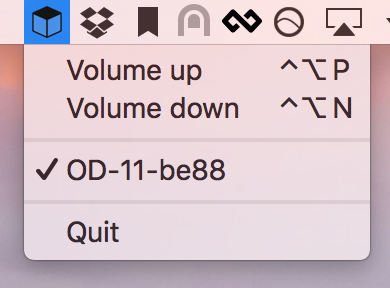
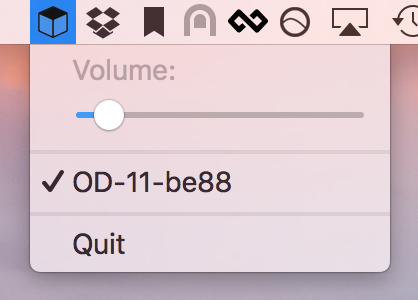
Slider for updating volume in menu

Changed region(s): [[0.0, 0.0, 1.0, 0.9062], [0.1538, 0.1875, 0.5231, 0.3125], [0.7077, 0.1875, 0.8923, 0.2812]]

diff --git a/OrthoCtrl/AppDelegate.m b/OrthoCtrl/AppDelegate.m
@@ -66,16 +66,7 @@
 @property Device* selectedDevice;
 @property DeviceDiscoverer*     disco;
 
-@end
-
-@class FindServices;
-@class Service;
-
-@protocol FindServicesDelegate <NSObject>
-
-- (void)findServices:(FindServices*)theFindServices didFindService:(Service*)theService;
-
-- (void)findServices:(FindServices*)theFindServices didLoseService:(Service*)theService;
+@property BOOL updatingVolume;
 
 @end
 
@@ -85,6 +76,7 @@
     [self startDiscovery];
     [self setupStatusItem];
     [self registerHotkeys];
+    self.updatingVolume = false;
 }
 
 #pragma mark - Bonjour
@@ -187,13 +179,22 @@
     NSMenu *menu = [[NSMenu alloc] init];
     NSMutableDictionary*  devices = [self.disco devices];
 
-    NSMenuItem* volUp   = [menu addItemWithTitle:@"Volume up" action:nil keyEquivalent:@"p"];
-    NSMenuItem* volDown = [menu addItemWithTitle:@"Volume down" action:nil keyEquivalent:@"n"];
-    [volUp setKeyEquivalentModifierMask: NSAlternateKeyMask | NSControlKeyMask];
-    [volDown setKeyEquivalentModifierMask: NSAlternateKeyMask | NSControlKeyMask];
-    if (devices.count > 0) {
-        [volUp setAction:@selector(increaseVolume:)];
-        [volDown setAction:@selector(decreaseVolume:)];
+    
+    double volumeValue = 0;
+    if (self.selectedDevice != nil) {
+        volumeValue = self.selectedDevice.volume;
+    }
+    [menu addItemWithTitle:@"Volume:" action:nil keyEquivalent:@""];
+    NSSlider* volumeSlider = [NSSlider sliderWithValue:volumeValue minValue:0 maxValue:100 target:nil action:nil];
+    volumeSlider.frame = CGRectMake(20, 0, 150.0, 25.0);
+    NSMenuItem* volumeItem = [[NSMenuItem alloc] init];
+    [volumeItem setIndentationLevel:2];
+    NSView* volumeView = [[NSView alloc] initWithFrame:CGRectMake(0, 0, 180, 25)];
+    [volumeView addSubview:volumeSlider];
+    [volumeItem setView:volumeView];
+    [menu addItem:volumeItem];
+    if (self.selectedDevice) {
+        [volumeSlider setAction:@selector(setVolume:)];
     }
     
     [menu addItem:[NSMenuItem separatorItem]];
@@ -239,6 +240,12 @@
     [self updateStatusItemMenu];
 }
 
+- (void) deviceDidUpdateVolume:(Device*)device
+{
+    self.updatingVolume = false;
+    [self updateStatusItemMenu];
+}
+
 #pragma mark - Menu actions
 
 - (void) increaseVolume:(id)sender
@@ -252,6 +259,16 @@
 {
     if (self.selectedDevice != nil) {
         [self.selectedDevice decreaseVolume];
+    }
+}
+
+- (void) setVolume:(NSSlider*)slider
+{
+    int requestedVolume = [slider intValue];
+    if (self.selectedDevice != nil && self.updatingVolume == false && requestedVolume != self.selectedDevice.volume) {
+        NSLog(@"requested volume: %d (was %d)", requestedVolume, self.selectedDevice.volume);
+        [self.selectedDevice updateVolume:requestedVolume];
+        self.updatingVolume = true;
     }
 }
 

diff --git a/OrthoCtrl/Device.m b/OrthoCtrl/Device.m
@@ -224,6 +224,7 @@
         case 0:
             self.volume = [[json valueForKey:@"vol"] intValue];
             NSLog(@"new volume: %d", self.volume);
+            [self.delegate deviceDidUpdateVolume: self];
             break;
             
         default:

diff --git a/OrthoCtrl/DeviceDelegate.h b/OrthoCtrl/DeviceDelegate.h
@@ -19,6 +19,8 @@
 
 - (void)deviceDidDisconnect:(Device*)device;
 
+- (void)deviceDidUpdateVolume:(Device*)device;
+
 @end
 
 #endif /* DeviceDelegate_h */

diff --git a/README.md b/README.md
@@ -27,7 +27,7 @@ $ pod install
 
 - [x] Auto discover device IP
 - [x] Handle multiple groups
-- [ ] Volume slider
+- [x] Volume slider
 - [ ] Show real device name in list
 - [ ] Configurable shortcuts
 - [ ] More actions, like skipping tracks
